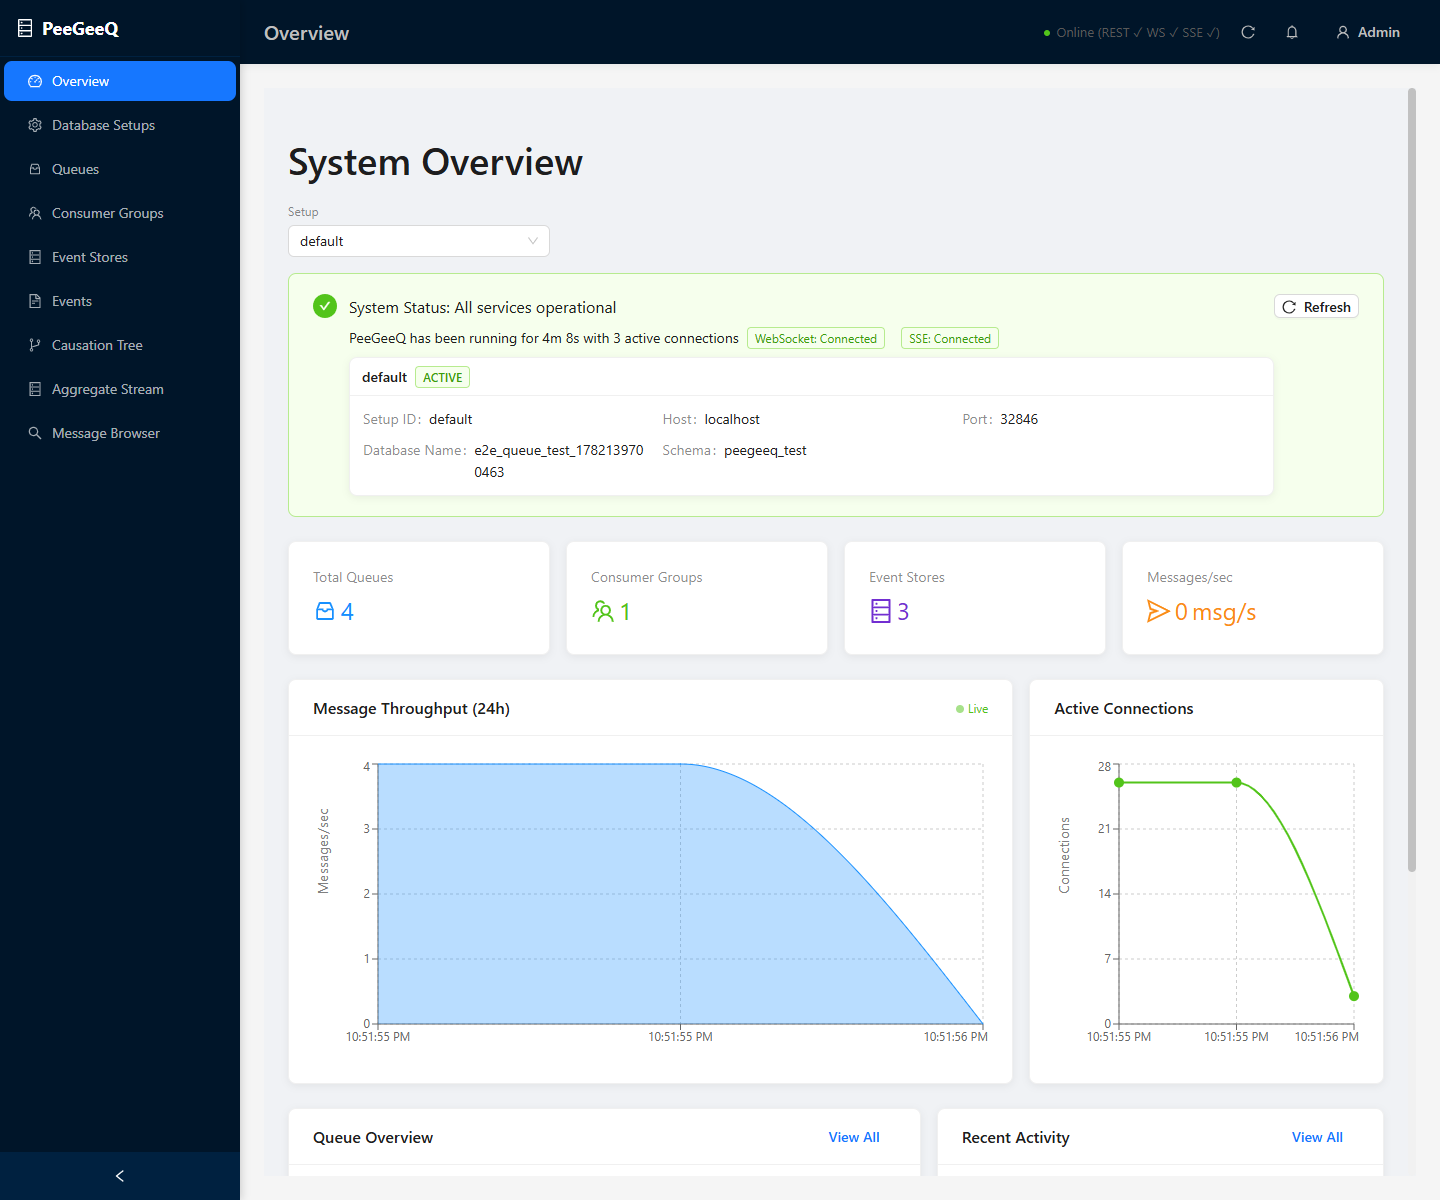
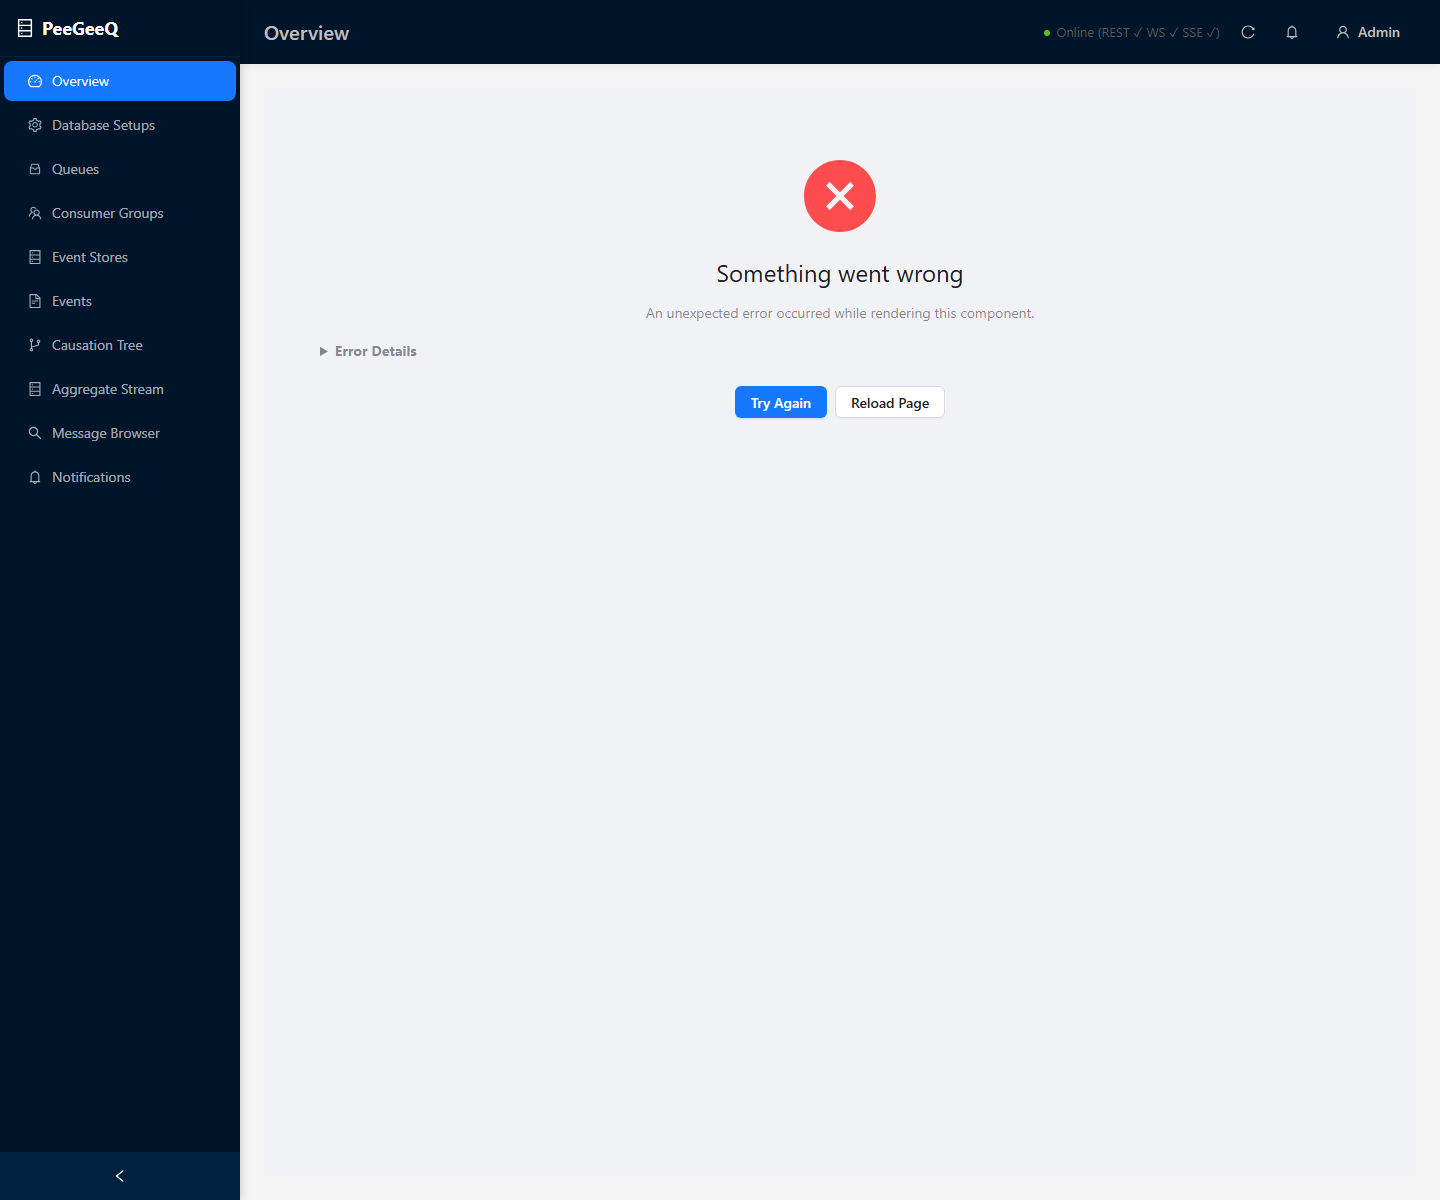
feat: update UI to display empty state for live data charts; adjust database port configuration

diff --git a/peegeeq-management-ui/src/pages/Overview.tsx b/peegeeq-management-ui/src/pages/Overview.tsx
@@ -1,6 +1,6 @@
 import { useState, useEffect, useRef } from 'react'
 import { useNavigate } from 'react-router-dom'
-import { Row, Col, Card, Statistic, Table, Tag, Alert, Space, Button, message, Typography, Descriptions } from 'antd'
+import { Row, Col, Card, Statistic, Table, Tag, Alert, Space, Button, message, Typography, Descriptions, Empty } from 'antd'
 import axios from 'axios'
 // import { useSystemMetrics, useSystemMonitoring } from '../hooks/useRealTimeUpdates'
 import { useManagementStore, QueueInfo } from '../stores/managementStore'
@@ -470,6 +470,7 @@ const Overview = () => {
                     <Col xs={24} lg={16}>
                         <Card title="Message Throughput (24h)" extra={<div className="realtime-indicator"><div className="realtime-dot"></div>Live</div>}>
                             <div style={{ height: 300 }}>
+                                {throughputData.length > 1 ? (
                                 <ResponsiveContainer width="100%" height="100%">
                                     <AreaChart data={throughputData}>
                                         <CartesianGrid strokeDasharray="3 3" />
@@ -495,12 +496,18 @@ const Overview = () => {
                                         />
                                     </AreaChart>
                                 </ResponsiveContainer>
+                                ) : (
+                                    <div style={{ height: '100%', display: 'flex', alignItems: 'center', justifyContent: 'center' }}>
+                                        <Empty image={Empty.PRESENTED_IMAGE_SIMPLE} description="Waiting for live data" />
+                                    </div>
+                                )}
                             </div>
                         </Card>
                     </Col>
                     <Col xs={24} lg={8}>
                         <Card title="DB Pool Connections" extra={<div className="realtime-indicator"><div className="realtime-dot"></div>Live</div>}>
                             <div style={{ height: 300 }}>
+                                {connectionData.length > 1 ? (
                                 <ResponsiveContainer width="100%" height="100%">
                                     <AreaChart data={connectionData}>
                                         <CartesianGrid strokeDasharray="3 3" />
@@ -545,6 +552,11 @@ const Overview = () => {
                                         />
                                     </AreaChart>
                                 </ResponsiveContainer>
+                                ) : (
+                                    <div style={{ height: '100%', display: 'flex', alignItems: 'center', justifyContent: 'center' }}>
+                                        <Empty image={Empty.PRESENTED_IMAGE_SIMPLE} description="Waiting for live data" />
+                                    </div>
+                                )}
                             </div>
                         </Card>
                     </Col>

diff --git a/docs-design/tasks/SCHEMA-PROCESSING-GAPS-CRITICAL-17-Jun-2026.md b/docs-design/tasks/SCHEMA-PROCESSING-GAPS-CRITICAL-17-Jun-2026.md
@@ -2,15 +2,22 @@
 
 ## Status: REOPENED (2026-06-16) — moved back to active tasks.
 
+> **Update 2026-06-27 — near-complete.** All conversions and code fixes are DONE and verified GREEN, including
+> the Phase F Vert.x-lifecycle items (F1 resolved, F2 ×3 fixed) and the test-resource `.properties` sweep. **Two
+> owner-run verification items remain** before this is 100% closed: (1) **Phase E** — the 9 remaining
+> `peegeeq-management-ui` e2e specs (converted + type-checked, not yet run as a suite); (2)
+> `PgBiTemporalEventStorePerformanceTest` guard-removal under its perf profile.
+
 The original "COMPLETE" was premature: it knowingly left ~60 test files (REST/setup-service per-setup
 creation + frontend e2e) provisioning schema `public`, which the owner has ruled an error. The
 **"no `public` in any test"** sweep is now an ACTIVE task — Phase A verified GREEN (the setup-service
-create path works on a non-public schema); Phases B–E pending. See "Follow-up: no `public` in any
+create path works on a non-public schema); Phases B–D verified GREEN, Phase E converted (full Playwright
+e2e run still pending), Phase F (Vert.x lifecycle) COMPLETE. See "Follow-up: no `public` in any
 test (2026-06-16)" at the end.
 
 **Prior remediation (still valid):** Test-layer remediation (S1–S5) COMPLETE; production fail-fast D2.1–D2.5 COMPLETE (13 Jun 2026). The first remediation (S1–S3, system-property-driven) was architecturally WRONG and has been replaced by the explicit-schema remediation; see "Architecture correction" below.
 
-**Open production defect (not schema work):** the sweep surfaced **F1** — `PeeGeeQDatabaseSetupService` constructs `PeeGeeQManager` without its context Vert.x, so every `createCompleteSetup` spins up a new Vert.x + worker pool. Logged, unfixed, needs its own analysis + targeted run; detail in "Phase F — Testing discoveries: Vert.x lifecycle" below.
+**F1 (production defect surfaced by the sweep) — RESOLVED, verified GREEN 2026-06-27.** `PeeGeeQDatabaseSetupService` was constructing `PeeGeeQManager` without its context Vert.x, spinning up a new Vert.x + worker pool per `createCompleteSetup`. The fix (pass the captured Vert.x) was already committed as `8d03474e7`; a clean rebuild confirmed the "already on a Vert.x context" warnings are gone. Detail in "Phase F — Testing discoveries: Vert.x lifecycle" below.
 
 ---
 
@@ -67,7 +74,7 @@ schema at all.
 ## D2 — production fail-fast enforcement (phased, mandated last)
 
 The owner mandated phased TDD execution, one phase verified at a time. Phase 0 (read-only
-investigation) and phases D2.1–D2.2 are DONE; D2.3–D2.5 remain.
+investigation) and phases D2.1–D2.5 are all DONE (13 Jun 2026).
 
 ### D2.0 — investigation (DONE) — findings that reshaped the plan
 - **The no-arg/1-arg `PeeGeeQConfiguration` constructors were already `@Deprecated(forRemoval)`** with zero production callers — deletion, not refactor.
@@ -415,7 +422,7 @@ schema — on `ManagementApiIntegrationTest` before the mechanical sweep of the 
 | C | `peegeeq-db` / `peegeeq-integration-tests` / `peegeeq-runtime` / `peegeeq-rest-client` | ✅ **DONE — all GREEN.** ✅ `peegeeq-runtime` (`RuntimeDatabaseSetupServiceIntegrationTest:103` `.schema(...)`) + `peegeeq-rest-client` (`RestClientIntegrationTest:147` `.put("schema",…)`) converted to `PostgreSQLTestConstants.TEST_SCHEMA` and GREEN 2026-06-20 (`logs/schema-phaseC-runtime-restclient-20260620.txt`: runtime 38/0, rest-client 15/0). ✅ `peegeeq-db` **GREEN 2026-06-20** — 8 genuine schema-config literals across 2 files (`PeeGeeQDatabaseSetupServiceEnhancedTest` ×6 create-path, `EventDrivenLifecycleTest` ×2 positional) → `TEST_SCHEMA`; 3 occurrences deliberately LEFT (`PeeGeeQManagerTimerGuardTest:519` + `PeeGeeQManagerCloseLogLevelTest:287` `if (!"public".equals(schema))` sentinels where schema already = `TEST_SCHEMA`; `PostgreSqlIdentifierValidatorTest:238` validator fixture). Validated via `mvn test -Pintegration-tests -pl :peegeeq-db` (`logs/schema-phaseC-db-20260620.txt`): **727 tests, 0 failures**, both converted classes pass. Confirmed `EventDrivenLifecycleTest` (construction-only, schema not pre-provisioned) tolerates `TEST_SCHEMA`. ✅ `peegeeq-integration-tests` **GREEN 2026-06-21** — 10 create-path schema literals across 7 files (`SmokeTestBase` shared helper, `PeeGeeQCriticalPathSmokeTest`, `NativeConcurrencySmokeTest`, `BiTemporalEventStoreSmokeTest`, `EventVisualizationApiTest`, `EventStoreAdvancedAttributesSmokeTest`, `EventStoreManagementSmokeTest` ×4) → `TEST_SCHEMA` (+import added to the 5 that lacked it); grep-clean. **Mixed tags** (5 `@Tag(SMOKE)` + 2 `@Tag(INTEGRATION)`) verified via module-scoped all-tags `mvn test -pl :peegeeq-integration-tests -Pall-tests` (`logs/schema-phaseC-integtests-20260620.txt`): **97 tests, 0 failures**, all 7 converted classes pass. Flagged (not fixed): `PeeGeeQCriticalPathSmokeTest` hand-rolls its container (antipattern §2); `NativeConcurrencySmokeTest` uses `CountDownLatch.await`/`setTimer` readiness guards/reflection field access (pre-existing, unrelated to schema swap). **All Phase C conversions complete and GREEN.** Flagged (not fixed here): `RestClientIntegrationTest` hand-rolls its container instead of `PostgreSQLTestConstants.createStandardContainer()` (antipattern §2). |
 | D | `peegeeq-examples` / `peegeeq-native` / `peegeeq-outbox` test usages | ✅ **DONE — all GREEN.** **Owner ruling 2026-06-21:** cosmetic/non-config `"public"` defaults are CONVERTED too (not left); only documentation prose referencing `"public"` to explain the no-public rule stays (converting it would make the doc factually wrong). ✅ `peegeeq-native` **GREEN 2026-06-21** — `PeeGeeQExampleTest:258` dead `getString(key,"public")` log fallback → `TEST_SCHEMA`; 2 doc references left (`PgNativeQueueFactoryIntegrationTest:91` comment, `PgNativeQueueFactoryContractTest:38` Javadoc). `mvn test -Pintegration-tests -pl :peegeeq-native` (`logs/schema-phaseD-native-20260621.txt`): **190 tests, 0 failures** (6 pre-existing skips). ✅ `peegeeq-outbox` **GREEN 2026-06-21** — 2 genuine config literals → `TEST_SCHEMA` (`OutboxBlockingSafetyTest:38`, `OutboxFactoryCloseHookTest:181`; both `@Tag(CORE)`, no-DB construction-only configs) +imports; 1 Javadoc left (`OutboxFactoryContractTest:38`). `mvn test -pl :peegeeq-outbox` (`logs/schema-phaseD-outbox-20260621.txt`): **81 tests, 0 failures**. Flagged (not fixed): `OutboxFactoryCloseHookTest` uses banned `Future.await()` throughout (pre-existing). ✅ `peegeeq-examples` **GREEN 2026-06-21** — 3 genuine create-path literals → `TEST_SCHEMA` (`DatabaseSetupServiceIntegrationTest:116` & `:339`, `RestApiExampleTest:196`; both files already imported the constant); 1 comment left (`ConsumerGroupLoadBalancingDemoTest:170`, documents the "no public fallback" rule). `mvn test -Pintegration-tests -pl :peegeeq-examples -Dtest=DatabaseSetupServiceIntegrationTest,RestApiExampleTest` (`logs/schema-phaseD-examples-20260621.txt`): **13 tests, 0 failures** (DatabaseSetupServiceIntegrationTest 8/0, RestApiExampleTest 5/0). Flagged (not fixed): `DatabaseSetupServiceIntegrationTest` hand-rolls its container (§2); `RestApiExampleTest:122` post-`deployVerticle` `vertx.timer(500)` readiness delay (setTimer-guard antipattern). **Note (pre-existing, unrelated):** the run logged 7× `"already on a Vert.x context… create a new Vertx instance?"` warnings — root cause is `PeeGeeQDatabaseSetupService:178` constructing `new PeeGeeQManager(config)` without passing its context Vert.x, so `PeeGeeQManager:187` creates a fresh Vert.x on the event loop. Production-code lifecycle issue, not a schema-sweep concern; tracked separately below. |
 | E | Frontend e2e/TS (`peegeeq-management-ui`) create flows + fixtures | 🔄 **Converted 2026-06-21, pending e2e run.** Added `TEST_SCHEMA = 'peegeeq_test'` to `src/tests/e2e/test-constants.ts` (mirrors Java `PostgreSQLTestConstants.TEST_SCHEMA`). Converted **12 genuine schema literals across 10 spec files**: 4 `schema: 'public'` object-literals (`setup-prerequisite`, `database-setup` ×2, `event-stores-scope-filter`) + 8 `getByLabel(/schema/i).fill('public')` form-fills (`api-error-paths`, `event-store-management`, `event-store-workflow`, `event-visualization`, `queue-messaging-workflow`, `queue-management`, `take-screenshots` ×2; `take-screenshots` uses a local `TEST_SCHEMA` const to mirror its local-`SETUP_ID` idiom). Left intentionally: `database-cleanup.ts:61` system-schema *preserve* sentinel (`NOT IN (…, 'public')`), and the `test-constants.ts` doc comment. `npm run type-check` passes. **Partially verified GREEN 2026-06-22:** `event-stores-scope-filter` (one of the converted `schema:` create-path specs) passed via `npx playwright test --project=12b-event-stores-scope-filter` (the spec + its setup-prerequisite dependency chain — not the full suite), confirming the `TEST_SCHEMA` create-path + scope filtering work against the real backend. That run also required fixing the spec's own `showAllRows` pagination helper — a **pre-existing full-suite fragility, not a schema issue**: it ran before the async rows loaded, and a switch to `selectAntOption` regressed it because `filter({hasNot})` can't exclude a self-hidden leftover dropdown; restored the CSS `:not(.ant-select-dropdown-hidden)` selector + wait-for-rows + a selection-item verify. The other 9 converted specs are type-checked but not yet individually run. **Scope note:** my first grep caught only `schema: 'public'` object-literals and missed the `.fill('public')` form-fills — corrected (E is 10 files, not the 3 first reported). PS helper scripts + docs `public` references: **done** — see the "remove ALL public references" follow-up section below. |
-| F | **Testing discovery (not a schema conversion)** — Vert.x lifecycle issues surfaced during sweep verification runs | 🔎 **Logged 2026-06-21, not fixed.** Production-code (and related test-side) Vert.x lifecycle defects found while running the schema-sweep verification suites. Out of scope for the sweep; each needs its own analysis + targeted run before any change. Detail in "Phase F — Testing discoveries: Vert.x lifecycle" below. |
+| F | **Testing discovery (not a schema conversion)** — Vert.x lifecycle issues surfaced during sweep verification runs | ✅ **COMPLETE 2026-06-27.** F1 (per-setup Vert.x) verified GREEN — fix already committed as `8d03474e7`; all three F2 test-side antipatterns (`OutboxFactoryCloseHookTest`, `NativeConcurrencySmokeTest`, `RestApiExampleTest`) converted and verified GREEN. Detail in "Phase F — Testing discoveries: Vert.x lifecycle" below. |
 
 ### Open items surfaced during Phase B validation (not schema-related)
 
@@ -428,7 +435,7 @@ schema — on `ManagementApiIntegrationTest` before the mechanical sweep of the 
   a defect in the streaming feature or the schema swap. Needs its own investigation — the test should not surface a
   post-assertion connection close as an error. **Do not** fold this into the schema sweep.
 
-  **Fixed 2026-06-27 — pending verification (full parallel run).** Root cause: the test set
+  **Fixed & verified GREEN 2026-06-27** (full parallel `peegeeq-rest` integration run). Root cause: the test set
   `response.exceptionHandler(ctx::failNow)` on the SSE stream, then, once all 10 messages were verified,
   called `sseClient.close()` **before** `ctx.completeNow()`. Closing the client tears down the still-open SSE
   stream, tripping that handler with `HttpClosedException` → `ctx.failNow(...)`. In isolation the immediately